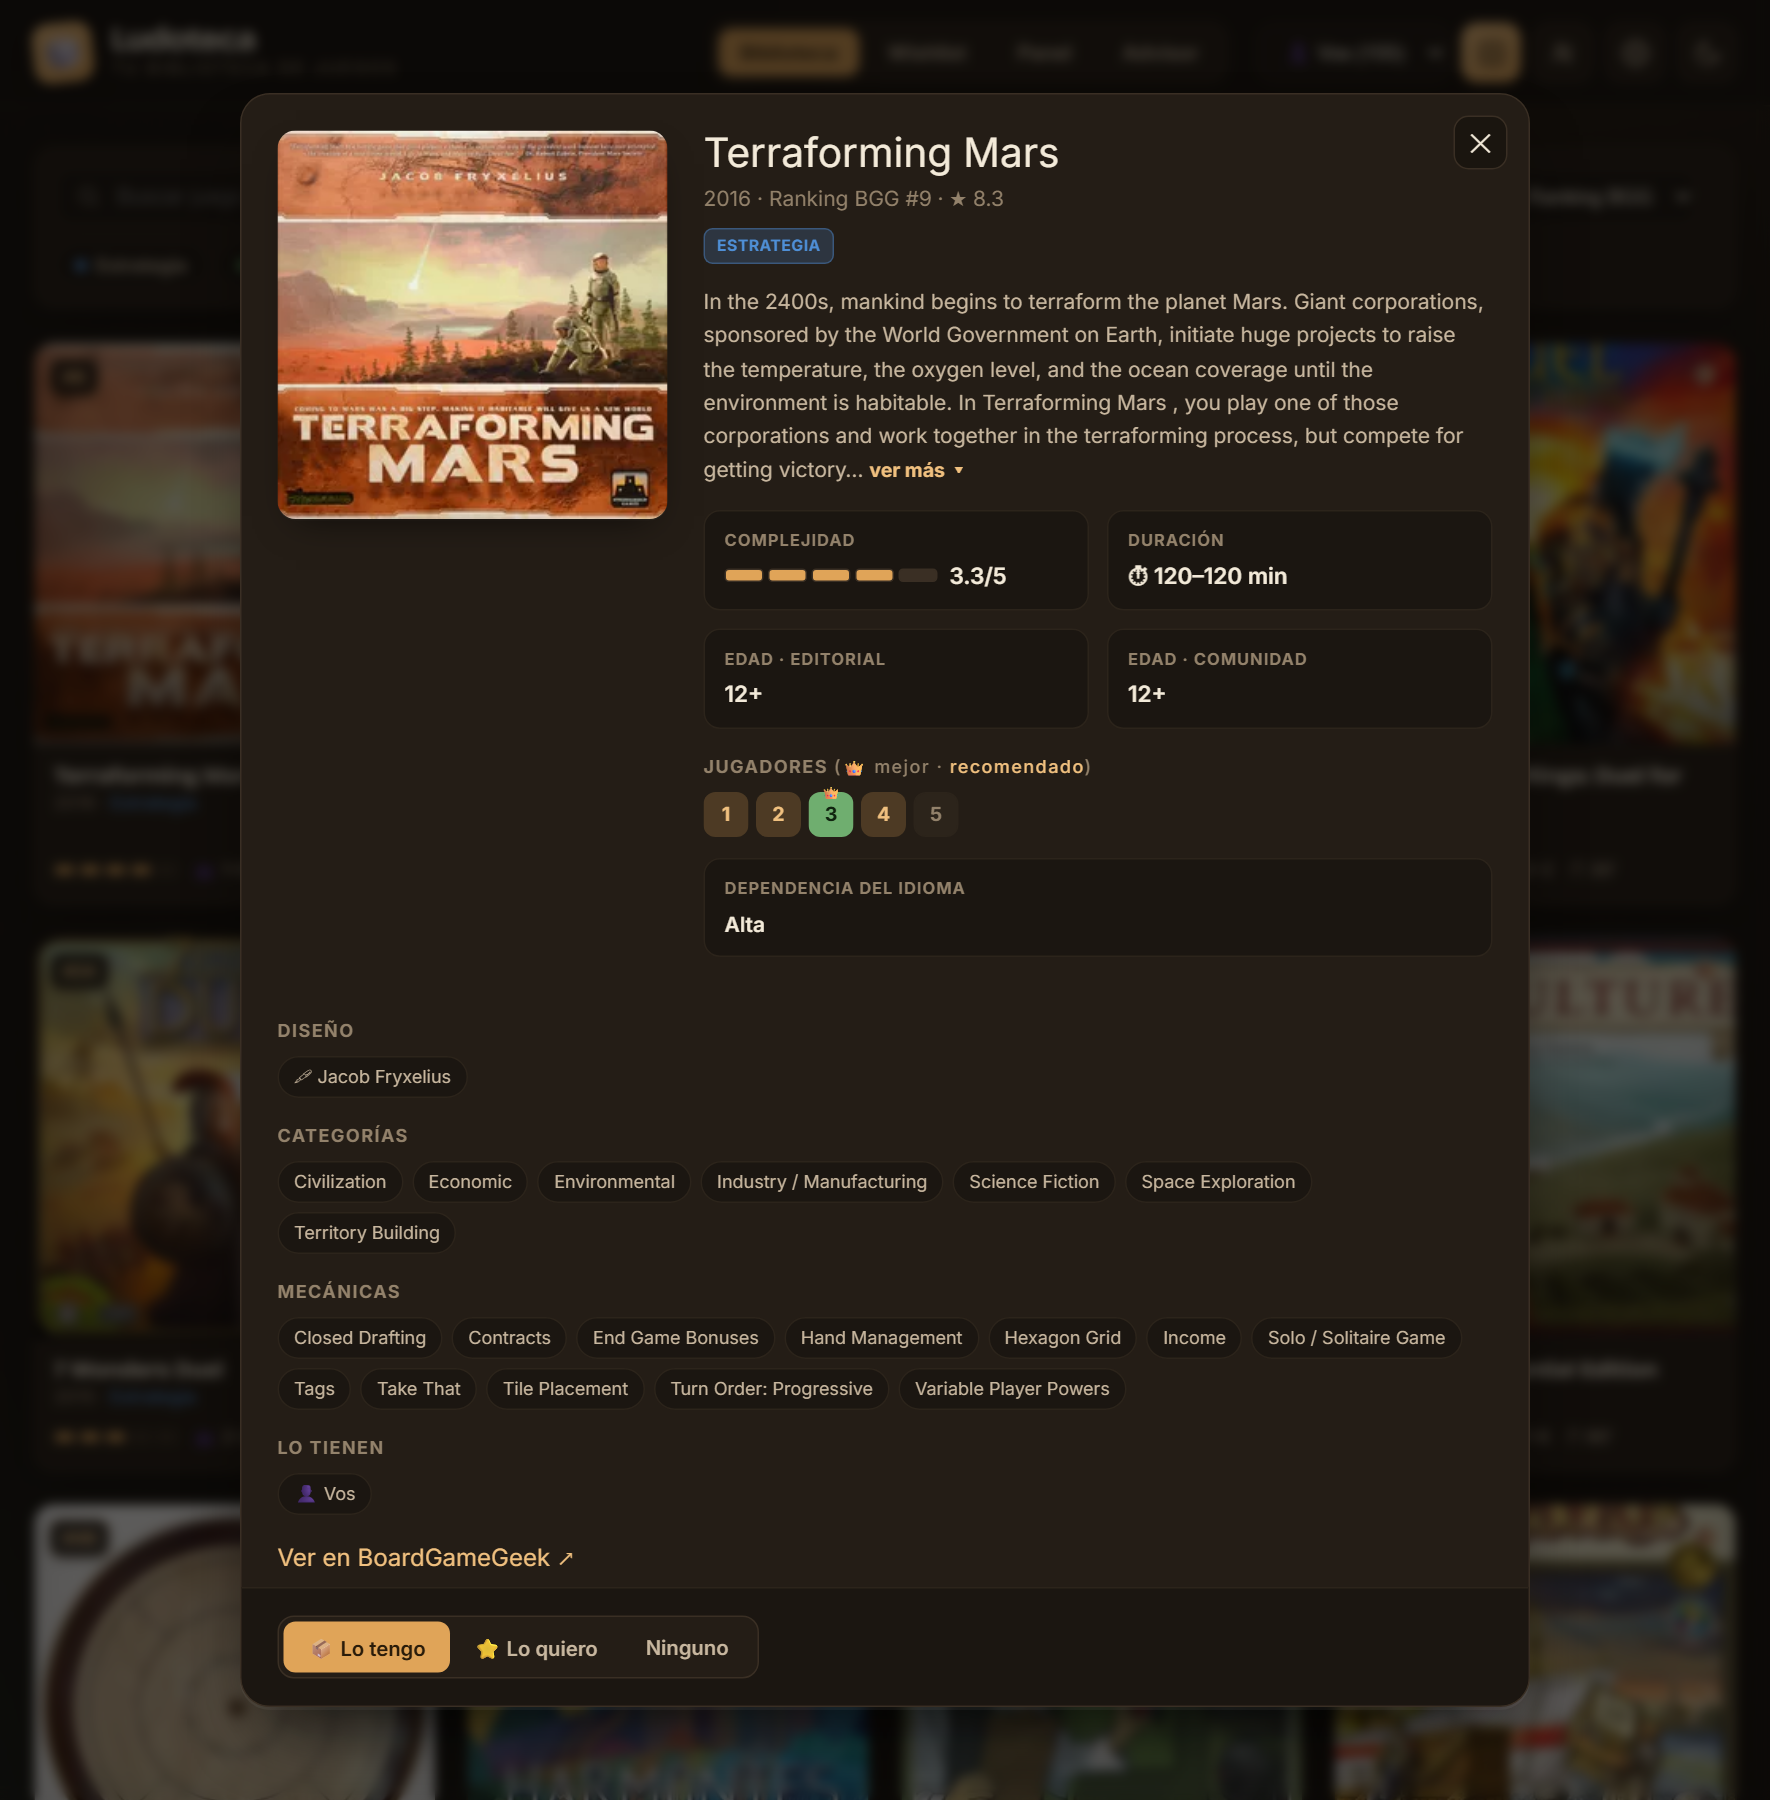
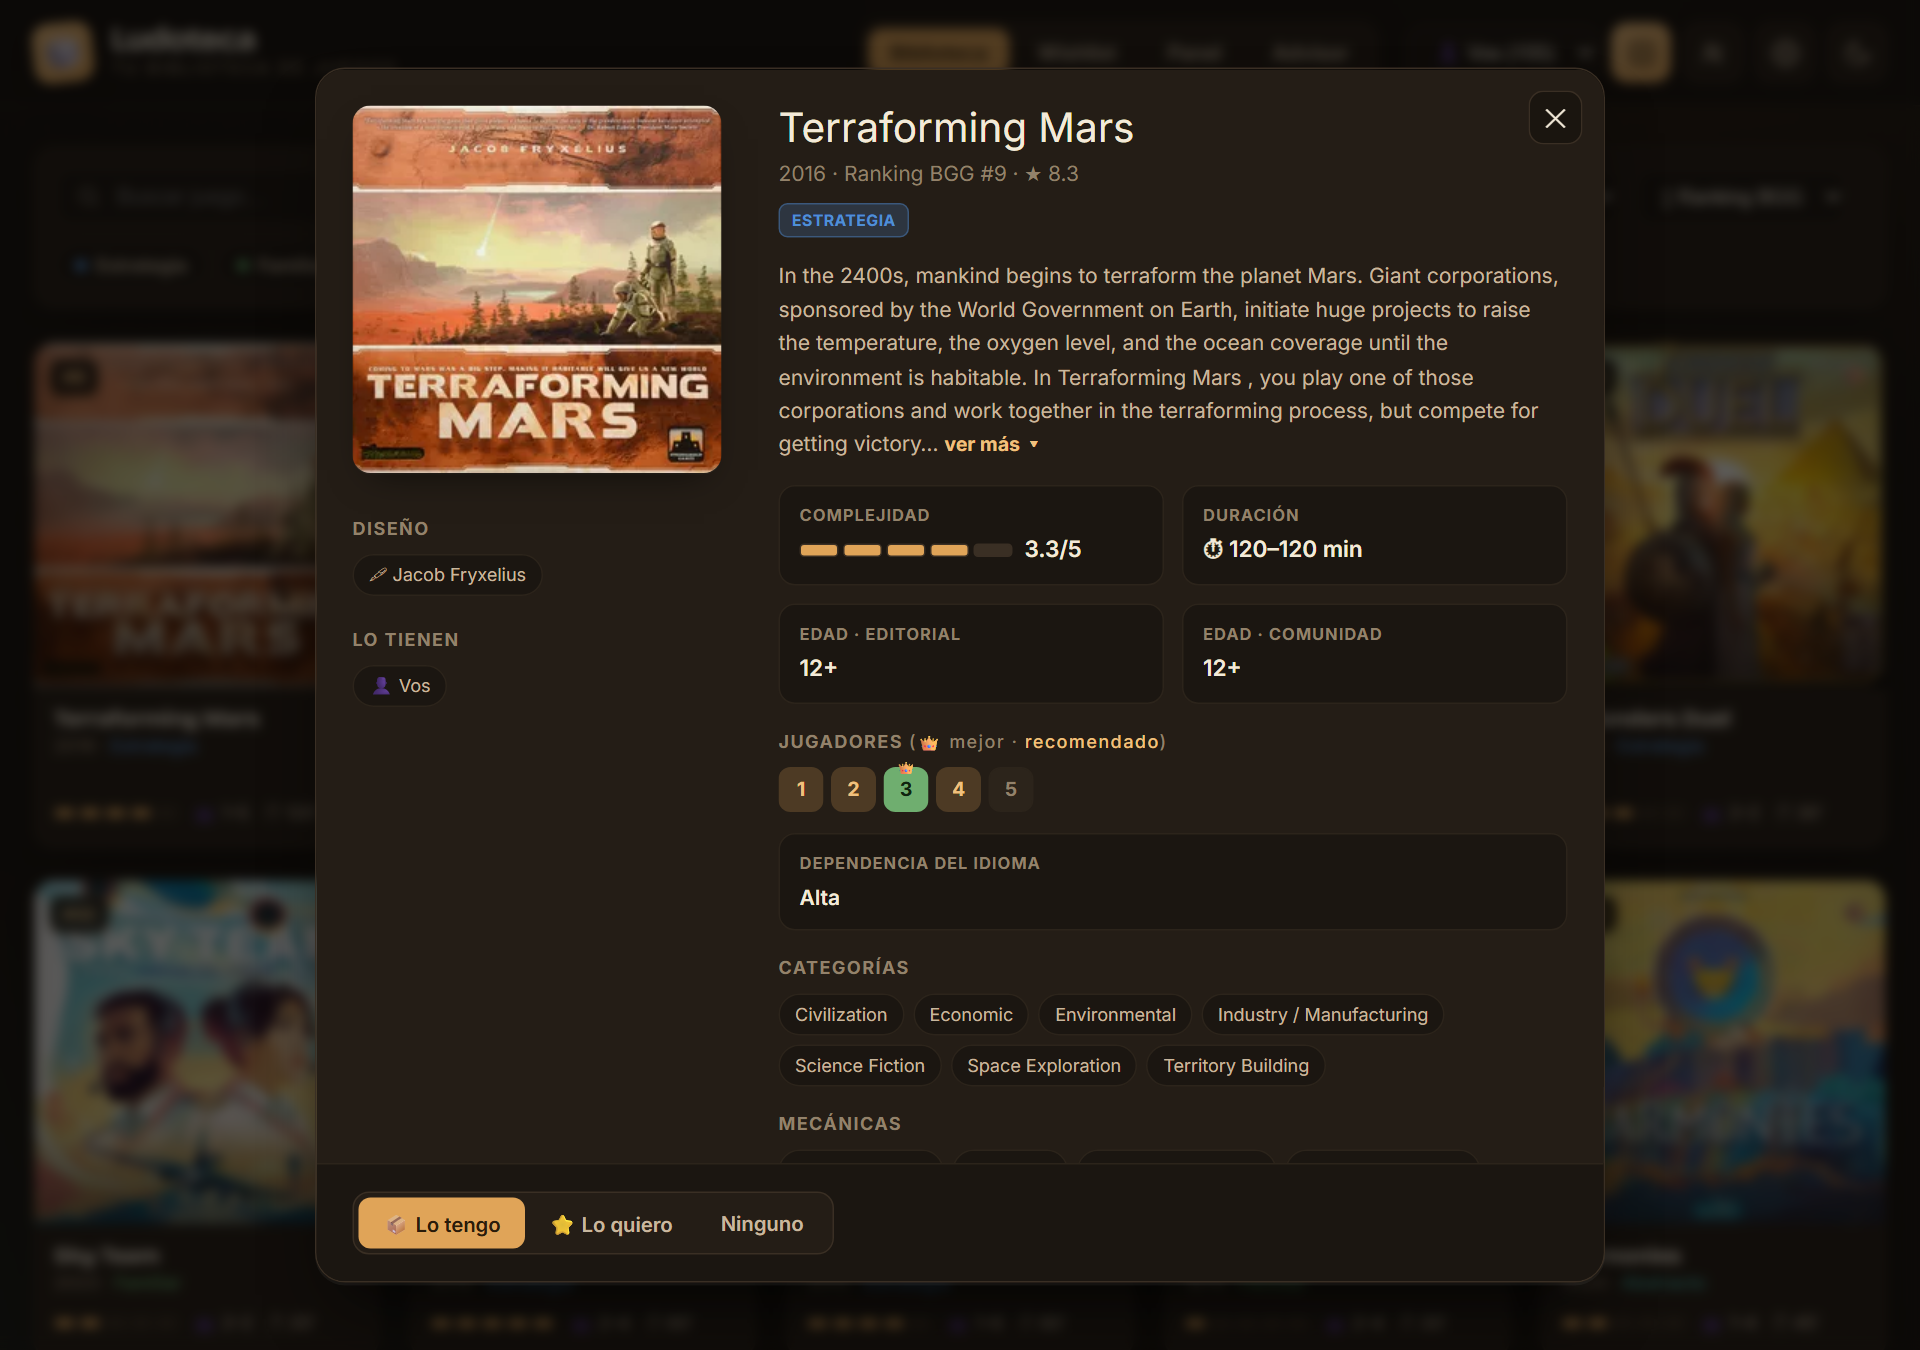
feat(ui): boton limpiar filtros + ficha reorganizada (columna izq con diseno/lo tienen/BGG)
Ficha: portada + diseno + lo tienen + link BGG en columna izquierda (llena el hueco); categorias/mecanicas full-width. Filtros: boton Limpiar (aparece con filtros activos). Recapturada detail.png.

diff --git a/web/app.js b/web/app.js
@@ -193,6 +193,13 @@ function renderFilters(kind) {
   sort.addEventListener('change', e => { f.sort = e.target.value; refreshGrid(kind); });
   bar.append(sort);
 
+  const clearBtn = node('<button class="chip clear-filters" id="clearFilters">✕ Limpiar filtros</button>');
+  clearBtn.addEventListener('click', () => {
+    S.filters = { q: '', types: new Set(), players: 0, time: '', weight: '', designer: '', sort: f.sort };
+    render();
+  });
+  clearBtn.style.display = hasActiveFilters() ? 'inline-flex' : 'none';
+  bar.append(clearBtn);
   bar.append(node(`<span class="count-tag" id="countTag"></span>`));
 
   // chips de tipo
@@ -206,11 +213,16 @@ function renderFilters(kind) {
   return bar;
 }
 
+function hasActiveFilters() {
+  const f = S.filters;
+  return !!(f.q || f.types.size || f.players || f.time || f.weight || f.designer);
+}
 function refreshGrid(kind) {
   const list = currentList(kind);
   const wrap = $('#main .view');
   const old = wrap.querySelector('.grid, .empty'); if (old) old.remove();
   const tag = $('#countTag'); if (tag) tag.textContent = `${list.length} juego${list.length === 1 ? '' : 's'}`;
+  const cb = $('#clearFilters'); if (cb) cb.style.display = hasActiveFilters() ? 'inline-flex' : 'none';
   if (!list.length) { wrap.append(node(`<div class="empty"><div class="ic">🎲</div><p>No hay juegos que coincidan.</p></div>`)); return; }
   const grid = node('<div class="grid"></div>');
   list.forEach(g => grid.append(card(g)));
@@ -286,7 +298,12 @@ function openDetail(g) {
   const ageCom = g.age_community ? esc(g.age_community) : '—';
   const inner = node(`<div>
     <div class="detail-hero">
-      <div class="cover"><img src="${esc(safeImg(g.image))}" alt=""></div>
+      <div class="detail-side">
+        <div class="cover"><img src="${esc(safeImg(g.image))}" alt=""></div>
+        ${g.designers && g.designers.length ? `<div><div class="section-h" style="margin-top:8px">Diseño</div><div class="chips-line" id="desigChips">${g.designers.map(d => `<span class="tagchip click" data-d="${esc(d.name)}">🖋 ${esc(d.name)}</span>`).join('')}</div></div>` : ''}
+        ${g.owners_owning && g.owners_owning.length ? `<div><div class="section-h">Lo tienen</div><div class="chips-line">${g.owners_owning.map(n => `<span class="tagchip">👤 ${esc(n)}</span>`).join('')}</div></div>` : ''}
+        <div style="margin-top:auto;padding-top:6px"><a href="${esc(safeImg(g.href) || '#')}" target="_blank" rel="noopener">Ver en BoardGameGeek ↗</a></div>
+      </div>
       <div>
         <div class="detail-title">${esc(g.name)}</div>
         <div class="detail-sub">${esc(g.yearpublished || '')} ${g.rank_overall ? '· Ranking BGG #' + g.rank_overall : ''} ${g.rating_avg ? '· ★ ' + (+g.rating_avg).toFixed(1) : ''}</div>
@@ -303,14 +320,9 @@ function openDetail(g) {
         <div class="section-h">Jugadores <span style="text-transform:none;font-weight:500">(👑 mejor · <span style="color:var(--brass-2)">recomendado</span>)</span></div>
         ${playersViz(g)}
         <div class="spec" style="margin-top:14px"><div class="k">Dependencia del idioma</div><div class="v" style="font-size:14px">${esc(LANG[g.language_dependence] || g.language_dependence || '—')}</div></div>
+        ${g.categories && g.categories.length ? `<div class="section-h">Categorías</div><div class="chips-line">${g.categories.map(c => `<span class="tagchip">${esc(c)}</span>`).join('')}</div>` : ''}
+        ${g.mechanics && g.mechanics.length ? `<div class="section-h">Mecánicas</div><div class="chips-line">${g.mechanics.slice(0, 12).map(c => `<span class="tagchip">${esc(c)}</span>`).join('')}</div>` : ''}
       </div>
-    </div>
-    <div style="padding:0 24px 8px">
-      ${g.designers && g.designers.length ? `<div class="section-h">Diseño</div><div class="chips-line" id="desigChips">${g.designers.map(d => `<span class="tagchip click" data-d="${esc(d.name)}">🖋 ${esc(d.name)}</span>`).join('')}</div>` : ''}
-      ${g.categories && g.categories.length ? `<div class="section-h">Categorías</div><div class="chips-line">${g.categories.map(c => `<span class="tagchip">${esc(c)}</span>`).join('')}</div>` : ''}
-      ${g.mechanics && g.mechanics.length ? `<div class="section-h">Mecánicas</div><div class="chips-line">${g.mechanics.slice(0, 12).map(c => `<span class="tagchip">${esc(c)}</span>`).join('')}</div>` : ''}
-      ${g.owners_owning && g.owners_owning.length ? `<div class="section-h">Lo tienen</div><div class="chips-line">${g.owners_owning.map(n => `<span class="tagchip">👤 ${esc(n)}</span>`).join('')}</div>` : ''}
-      <div style="margin-top:16px"><a href="${esc(safeImg(g.href) || '#')}" target="_blank" rel="noopener">Ver en BoardGameGeek ↗</a></div>
     </div>
     <div class="state-bar"></div>
   </div>`);

diff --git a/web/styles.css b/web/styles.css
@@ -148,6 +148,8 @@ select, .mini-select {
   background: var(--bg-2); color: var(--ink); border: 1px solid var(--line);
   border-radius: 10px; padding: 9px 12px; font-size: 13.5px; outline: none; cursor: pointer;
 }
+.chip.clear-filters { border-color: color-mix(in srgb, var(--danger) 45%, var(--line)); color: var(--danger); font-weight: 700; }
+.chip.clear-filters:hover { background: color-mix(in srgb, var(--danger) 14%, transparent); color: var(--danger); }
 .count-tag { color: var(--ink-dim); font-size: 13px; font-weight: 600; margin-left: auto; white-space: nowrap; }
 
 .type-chips { display: flex; gap: 7px; flex-wrap: wrap; width: 100%; }
@@ -227,6 +229,8 @@ select, .mini-select {
   background: color-mix(in srgb, var(--bg) 60%, transparent); color: var(--ink); font-size: 18px;
 }
 .detail-hero { display: grid; grid-template-columns: 260px 1fr; gap: 24px; padding: 24px; }
+.detail-side { display: flex; flex-direction: column; gap: 20px; }
+.detail-side .section-h { margin: 0 0 8px; }
 .detail-hero .cover { border-radius: 12px; overflow: hidden; box-shadow: var(--shadow-card); align-self: start; }
 .detail-hero .cover img { width: 100%; height: auto; }
 .detail-title { font-size: 27px; line-height: 1.1; }
